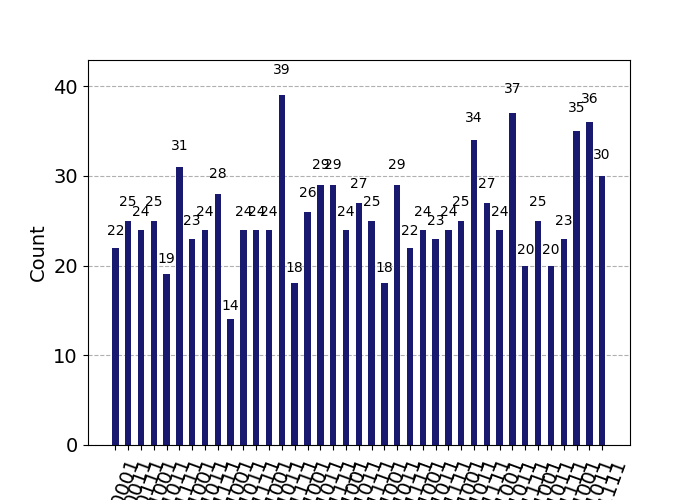
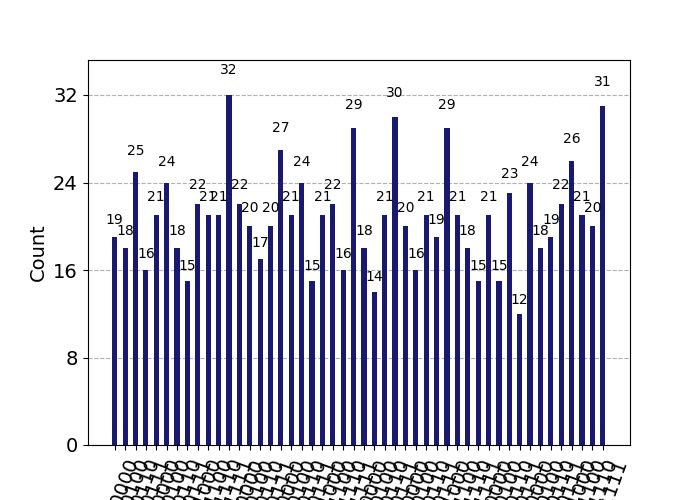
init refactor

diff --git a/white_prep_test_simmetry.py b/white_prep_test_simmetry.py
@@ -149,13 +149,29 @@ qc = transpile(qc,
 print(qc.draw("text"))
 
 
-# symmetric state yeeeee
+def cnz(qc, num_control, node, anc):
+    """Construct a multi-controlled Z gate
 
+    Args:
+    num_control :  number of control qubits of cnz gate
+    node :             node qubits
+    anc :               ancillaly qubits
+    """
+    qc.ccx(node[0], node[1], anc[0])
+    for i in range(num_control - 2):
+        qc.ccx(node[i + 2], anc[i], anc[i + 1])
+    qc.cz(anc[num_control - 2], node[num_control])
+    for i in range(num_control - 2)[::-1]:
+        qc.ccx(node[i + 2], anc[i], anc[i + 1])
+    qc.ccx(node[0], node[1], anc[0])
+
+
+# symmetric state yeeeee
 
 stat_prep = qc.to_instruction()
 inv_stat_prep = qc.inverse().to_instruction()
 
-qc = QuantumCircuit(10, 9)
+qc = QuantumCircuit(9 + 1 + 7, 9)
 
 qc.barrier(label="State preparation")
 qc.append(stat_prep, range(9))
@@ -164,37 +180,40 @@ qc.barrier(label="Oracle preparation")
 qc.x(9)
 qc.h(9)
 
-qc.barrier(label="Oracle")
-# oracle
-qc.ccx(7, 8, 9)
+for i in range(1):
+    qc.barrier(label="Oracle")
+    # oracle
+    qc.ccx(7, 8, 9)
 
-qc.barrier(label="Diffusion")
+    qc.barrier(label="Diffusion")
 
-# state preparation + x
-qc.append(stat_prep, range(9))
-qc.x(range(9))
+    # state preparation + x
+    qc.append(inv_stat_prep, range(9))
+    qc.x(range(9))
 
-qc.barrier()
+    qc.barrier()
 
-# Multi-controlled Z
-qc.h(8)
-qc.mct(list(range(8)), 8)
-qc.h(8)
+    # Multi-controlled Z
+    qc.h(8)
+    qc.mct(list(range(8)), 8)
+    qc.h(8)
 
-qc.barrier()
+    qc.barrier()
 
-# x + state preparation
-qc.x(range(9))
-qc.append(inv_stat_prep, range(9))
+    # x + state preparation
+    qc.x(range(9))
+    qc.append(stat_prep, range(9))
 
 qc.measure(range(9), range(9))
 
 print("------------------")
 print(qc.draw("text"))
 
+image = circuit_drawer(qc, output='mpl')
+image.savefig('circuit_image_2.png')
+
 sim = Aer.get_backend('qasm_simulator')
 job = execute(qc, sim, shots=1000)
 result = job.result()
 counts = result.get_counts(qc)
 count_results(counts)
-
